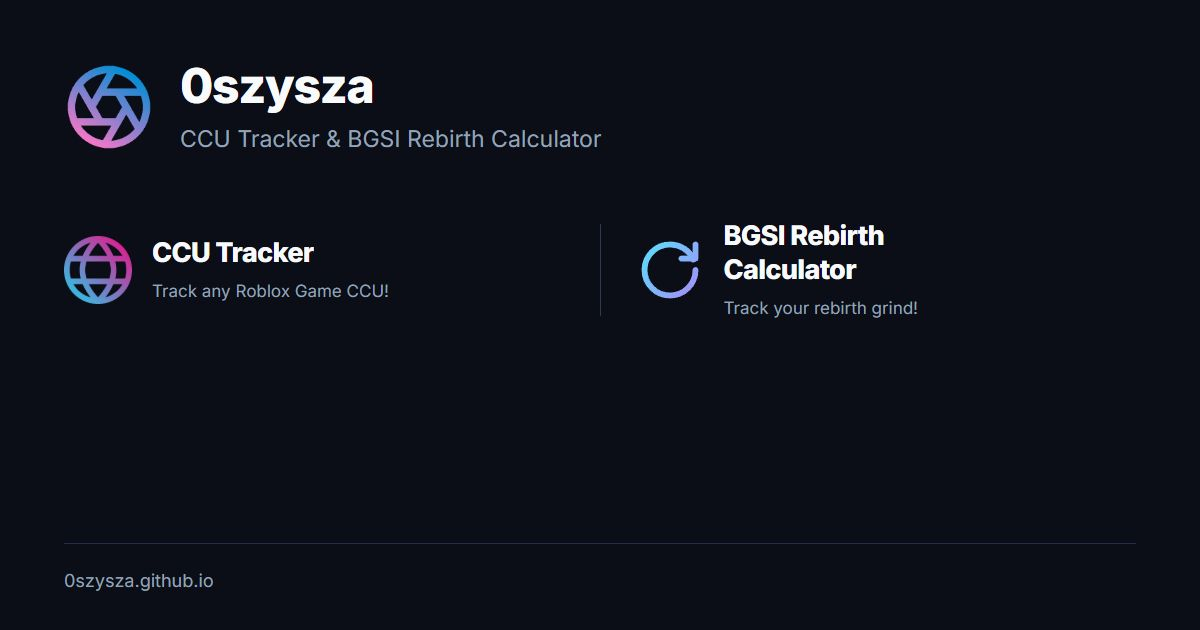
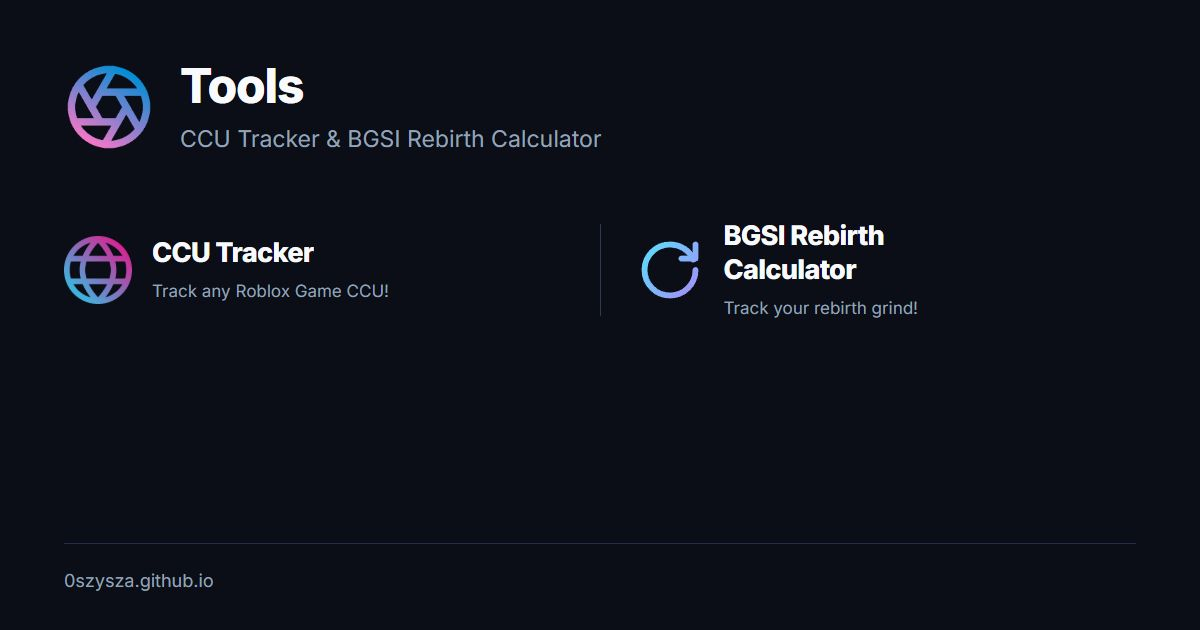
Name the home site Tools and refresh sharing preview

Changed region(s): [[0.1233, 0.0905, 0.3083, 0.181]]

diff --git a/assets/social/card.html b/assets/social/card.html
@@ -1,5 +1,5 @@
 <!doctype html>
-<html lang="en"><head><meta charset="utf-8"><meta name="viewport" content="width=1200"><title>Social preview</title><link rel="preconnect" href="https://fonts.googleapis.com"><link rel="preconnect" href="https://fonts.gstatic.com" crossorigin><link href="https://fonts.googleapis.com/css2?family=Inter:wght@400;600;700;800&display=swap" rel="stylesheet"><style>*{box-sizing:border-box}html,body{margin:0;width:1200px;height:630px;overflow:hidden;background:#0b0d17;color:#f8fafc;font-family:Inter,Arial,sans-serif}body{padding:58px 64px 36px;display:flex;flex-direction:column}.brand{display:flex;align-items:center;gap:26px}.brand>img{width:90px;height:90px;object-fit:contain}.brand h1{font-size:48px;font-weight:800;letter-spacing:-1.2px;line-height:1.15;margin:0}.brand p{font-size:23px;line-height:1.5;color:#94a3b8;margin:9px 0 0}.section-label{margin-left:auto;align-self:flex-start;margin-top:10px;font-size:20px;color:#94a3b8;font-weight:600}.headline{margin:56px 0 0;font-size:35px;line-height:1.3;font-weight:700;letter-spacing:-.7px}.features{display:grid;grid-template-columns:repeat(3,minmax(0,1fr));gap:30px;margin-top:42px}.feature{padding-top:20px;border-top:1px solid #303a55}.feature svg{width:25px;height:25px;fill:none;stroke:var(--accent,#5cddfa);stroke-width:1.8;stroke-linecap:round;stroke-linejoin:round;display:block;margin-bottom:13px}.feature strong{display:block;font-size:21px;font-weight:700;line-height:1.4}.feature p{font-size:18px;line-height:1.5;color:#94a3b8;margin:8px 0 0}.feature:nth-child(2){--accent:#a38ffa}.feature:nth-child(3){--accent:#ff007f}footer{margin-top:auto;padding-top:24px;border-top:1px solid #262d4a;font-size:18px;line-height:26px;color:#94a3b8}.tools{display:grid;grid-template-columns:1fr 1px 1fr;align-items:center;gap:35px;margin-top:62px}.tool{display:flex;align-items:center;gap:20px}.tool img,.tool-logo{width:68px;height:68px;object-fit:contain;flex:none}.tool strong{display:block;font-size:27px;line-height:1.28;font-weight:800;letter-spacing:-.6px}.tool small{display:block;margin-top:8px;color:#94a3b8;font-size:17px;line-height:1.5}.divider{height:92px;background:#303a55}</style></head><body><header class="brand"><img src="../../favicon.png" alt=""><div><h1>0szysza</h1><p>CCU Tracker &amp; BGSI Rebirth Calculator</p></div></header><div class="tools"><div class="tool"><img src="https://0szysza.github.io/trackccu/favicon.png" alt=""><div><strong>CCU Tracker</strong><small>Track any Roblox Game CCU!</small></div></div><span class="divider"></span><div class="tool"><svg class="tool-logo" aria-hidden="true" xmlns="http://www.w3.org/2000/svg" viewBox="0 0 256 256" fill="none">
+<html lang="en"><head><meta charset="utf-8"><meta name="viewport" content="width=1200"><title>Social preview</title><link rel="preconnect" href="https://fonts.googleapis.com"><link rel="preconnect" href="https://fonts.gstatic.com" crossorigin><link href="https://fonts.googleapis.com/css2?family=Inter:wght@400;600;700;800&display=swap" rel="stylesheet"><style>*{box-sizing:border-box}html,body{margin:0;width:1200px;height:630px;overflow:hidden;background:#0b0d17;color:#f8fafc;font-family:Inter,Arial,sans-serif}body{padding:58px 64px 36px;display:flex;flex-direction:column}.brand{display:flex;align-items:center;gap:26px}.brand>img{width:90px;height:90px;object-fit:contain}.brand h1{font-size:48px;font-weight:800;letter-spacing:-1.2px;line-height:1.15;margin:0}.brand p{font-size:23px;line-height:1.5;color:#94a3b8;margin:9px 0 0}.section-label{margin-left:auto;align-self:flex-start;margin-top:10px;font-size:20px;color:#94a3b8;font-weight:600}.headline{margin:56px 0 0;font-size:35px;line-height:1.3;font-weight:700;letter-spacing:-.7px}.features{display:grid;grid-template-columns:repeat(3,minmax(0,1fr));gap:30px;margin-top:42px}.feature{padding-top:20px;border-top:1px solid #303a55}.feature svg{width:25px;height:25px;fill:none;stroke:var(--accent,#5cddfa);stroke-width:1.8;stroke-linecap:round;stroke-linejoin:round;display:block;margin-bottom:13px}.feature strong{display:block;font-size:21px;font-weight:700;line-height:1.4}.feature p{font-size:18px;line-height:1.5;color:#94a3b8;margin:8px 0 0}.feature:nth-child(2){--accent:#a38ffa}.feature:nth-child(3){--accent:#ff007f}footer{margin-top:auto;padding-top:24px;border-top:1px solid #262d4a;font-size:18px;line-height:26px;color:#94a3b8}.tools{display:grid;grid-template-columns:1fr 1px 1fr;align-items:center;gap:35px;margin-top:62px}.tool{display:flex;align-items:center;gap:20px}.tool img,.tool-logo{width:68px;height:68px;object-fit:contain;flex:none}.tool strong{display:block;font-size:27px;line-height:1.28;font-weight:800;letter-spacing:-.6px}.tool small{display:block;margin-top:8px;color:#94a3b8;font-size:17px;line-height:1.5}.divider{height:92px;background:#303a55}</style></head><body><header class="brand"><img src="../../favicon.png" alt=""><div><h1>Tools</h1><p>CCU Tracker &amp; BGSI Rebirth Calculator</p></div></header><div class="tools"><div class="tool"><img src="https://0szysza.github.io/trackccu/favicon.png" alt=""><div><strong>CCU Tracker</strong><small>Track any Roblox Game CCU!</small></div></div><span class="divider"></span><div class="tool"><svg class="tool-logo" aria-hidden="true" xmlns="http://www.w3.org/2000/svg" viewBox="0 0 256 256" fill="none">
   <defs><linearGradient id="rebirth-gradient" x1="27" y1="42" x2="231" y2="212" gradientUnits="userSpaceOnUse"><stop stop-color="#5CDDFA"/><stop offset="1" stop-color="#A38FFA"/></linearGradient></defs>
   <path d="M224 128a96 96 0 1 1-96-96c40 0 74 23 88 57" stroke="url(#rebirth-gradient)" stroke-width="22" stroke-linecap="round" stroke-linejoin="round"/>
   <path d="M171 85h53V32" stroke="url(#rebirth-gradient)" stroke-width="22" stroke-linecap="round" stroke-linejoin="round"/>

diff --git a/index.html b/index.html
@@ -4,7 +4,7 @@
   <meta charset="utf-8">
   <meta name="viewport" content="width=device-width, initial-scale=1">
   <meta name="theme-color" content="#0b0d17">
-  <title>0szysza</title>
+  <title>Tools</title>
   <link rel="icon" type="image/png" href="favicon.png?v=20261002-2">
   <link rel="apple-touch-icon" href="favicon.png?v=20261002-2">
   <link rel="preconnect" href="https://fonts.googleapis.com">
@@ -53,26 +53,26 @@
 <link rel="canonical" href="https://0szysza.github.io/">
 <meta name="description" content="CCU Tracker and BGSI Rebirth Calculator by 0szysza. Track Roblox game stats or estimate when your accounts reach their rebirth goals.">
 <meta property="og:type" content="website">
-<meta property="og:site_name" content="0szysza">
+<meta property="og:site_name" content="Tools">
 <meta property="og:locale" content="en_GB">
-<meta property="og:title" content="0szysza — Roblox tools">
+<meta property="og:title" content="Tools">
 <meta property="og:description" content="CCU Tracker and BGSI Rebirth Calculator by 0szysza. Track Roblox game stats or estimate when your accounts reach their rebirth goals.">
 <meta property="og:url" content="https://0szysza.github.io/">
-<meta property="og:image" content="https://0szysza.github.io/assets/social/cover.png?v=20261002-1">
-<meta property="og:image:secure_url" content="https://0szysza.github.io/assets/social/cover.png?v=20261002-1">
+<meta property="og:image" content="https://0szysza.github.io/assets/social/cover.png?v=20261002-2">
+<meta property="og:image:secure_url" content="https://0szysza.github.io/assets/social/cover.png?v=20261002-2">
 <meta property="og:image:type" content="image/png">
 <meta property="og:image:width" content="1200">
 <meta property="og:image:height" content="630">
-<meta property="og:image:alt" content="0szysza: CCU Tracker and BGSI Rebirth Calculator.">
+<meta property="og:image:alt" content="Tools: CCU Tracker and BGSI Rebirth Calculator.">
 <meta name="twitter:card" content="summary_large_image">
-<meta name="twitter:title" content="0szysza — Roblox tools">
+<meta name="twitter:title" content="Tools">
 <meta name="twitter:description" content="CCU Tracker and BGSI Rebirth Calculator by 0szysza. Track Roblox game stats or estimate when your accounts reach their rebirth goals.">
-<meta name="twitter:image" content="https://0szysza.github.io/assets/social/cover.png?v=20261002-1">
-<meta name="twitter:image:alt" content="0szysza: CCU Tracker and BGSI Rebirth Calculator.">
+<meta name="twitter:image" content="https://0szysza.github.io/assets/social/cover.png?v=20261002-2">
+<meta name="twitter:image:alt" content="Tools: CCU Tracker and BGSI Rebirth Calculator.">
 </head>
 <body>
   <main>
-    <h1>Choose a tool</h1>
+    <h1>Tools</h1>
     <nav class="choices" aria-label="Choose a tool">
       <a class="tool" href="https://0szysza.github.io/trackccu/">
         <img src="https://0szysza.github.io/trackccu/favicon.png" alt="">
